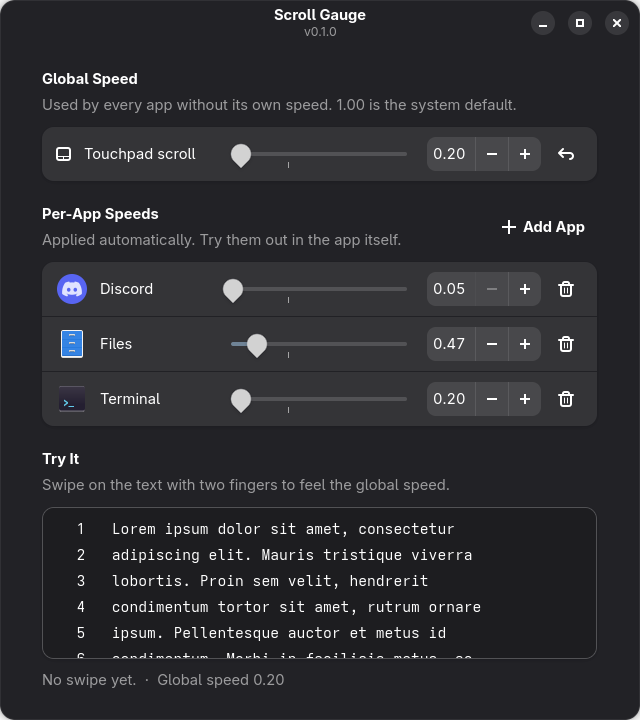
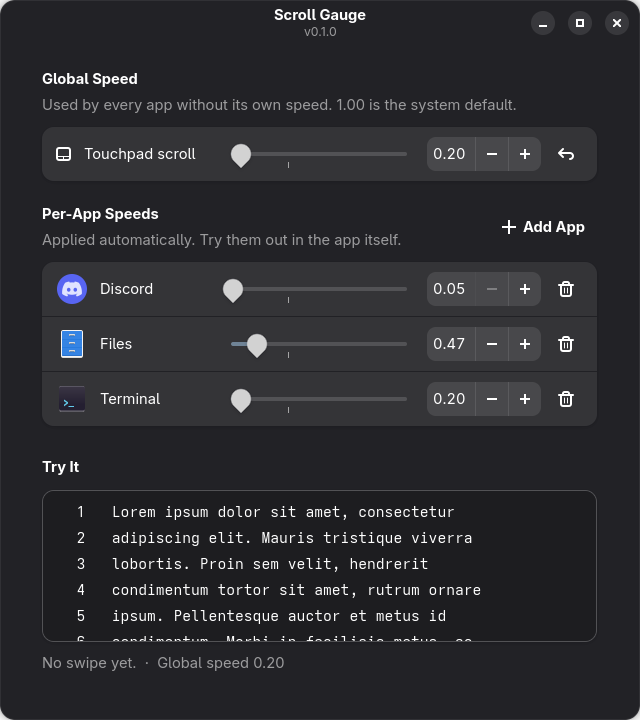
Add CI badge, dev commands and refreshed screenshot to README

Changed region(s): [[0.0625, 0.6111, 0.75, 0.9472]]

diff --git a/README.md b/README.md
@@ -1,5 +1,7 @@
 # Scroll Gauge
 
+[![CI](https://github.com/Vikmanou/scroll-gauge/actions/workflows/ci.yml/badge.svg)](https://github.com/Vikmanou/scroll-gauge/actions/workflows/ci.yml)
+
 A GNOME app for setting touchpad scroll speed.
 
 WSF's own window only sets one global speed and Touchpad Speed Control's settings only set per-app speeds and neither lets you try the speed while you adjust it. Scroll Gauge puts both in one window with a live demo.
@@ -49,10 +51,13 @@ Changes save automatically.
 ## Development
 
 ```bash
-pip install -e '.[test]'
+pip install -e '.[dev]'
 pytest
+ruff check . && ruff format --check .
 ```
+
+CI runs the same checks on Python 3.11–3.14.
 
 ## License
 
-MIT
+[MIT](LICENSE)
